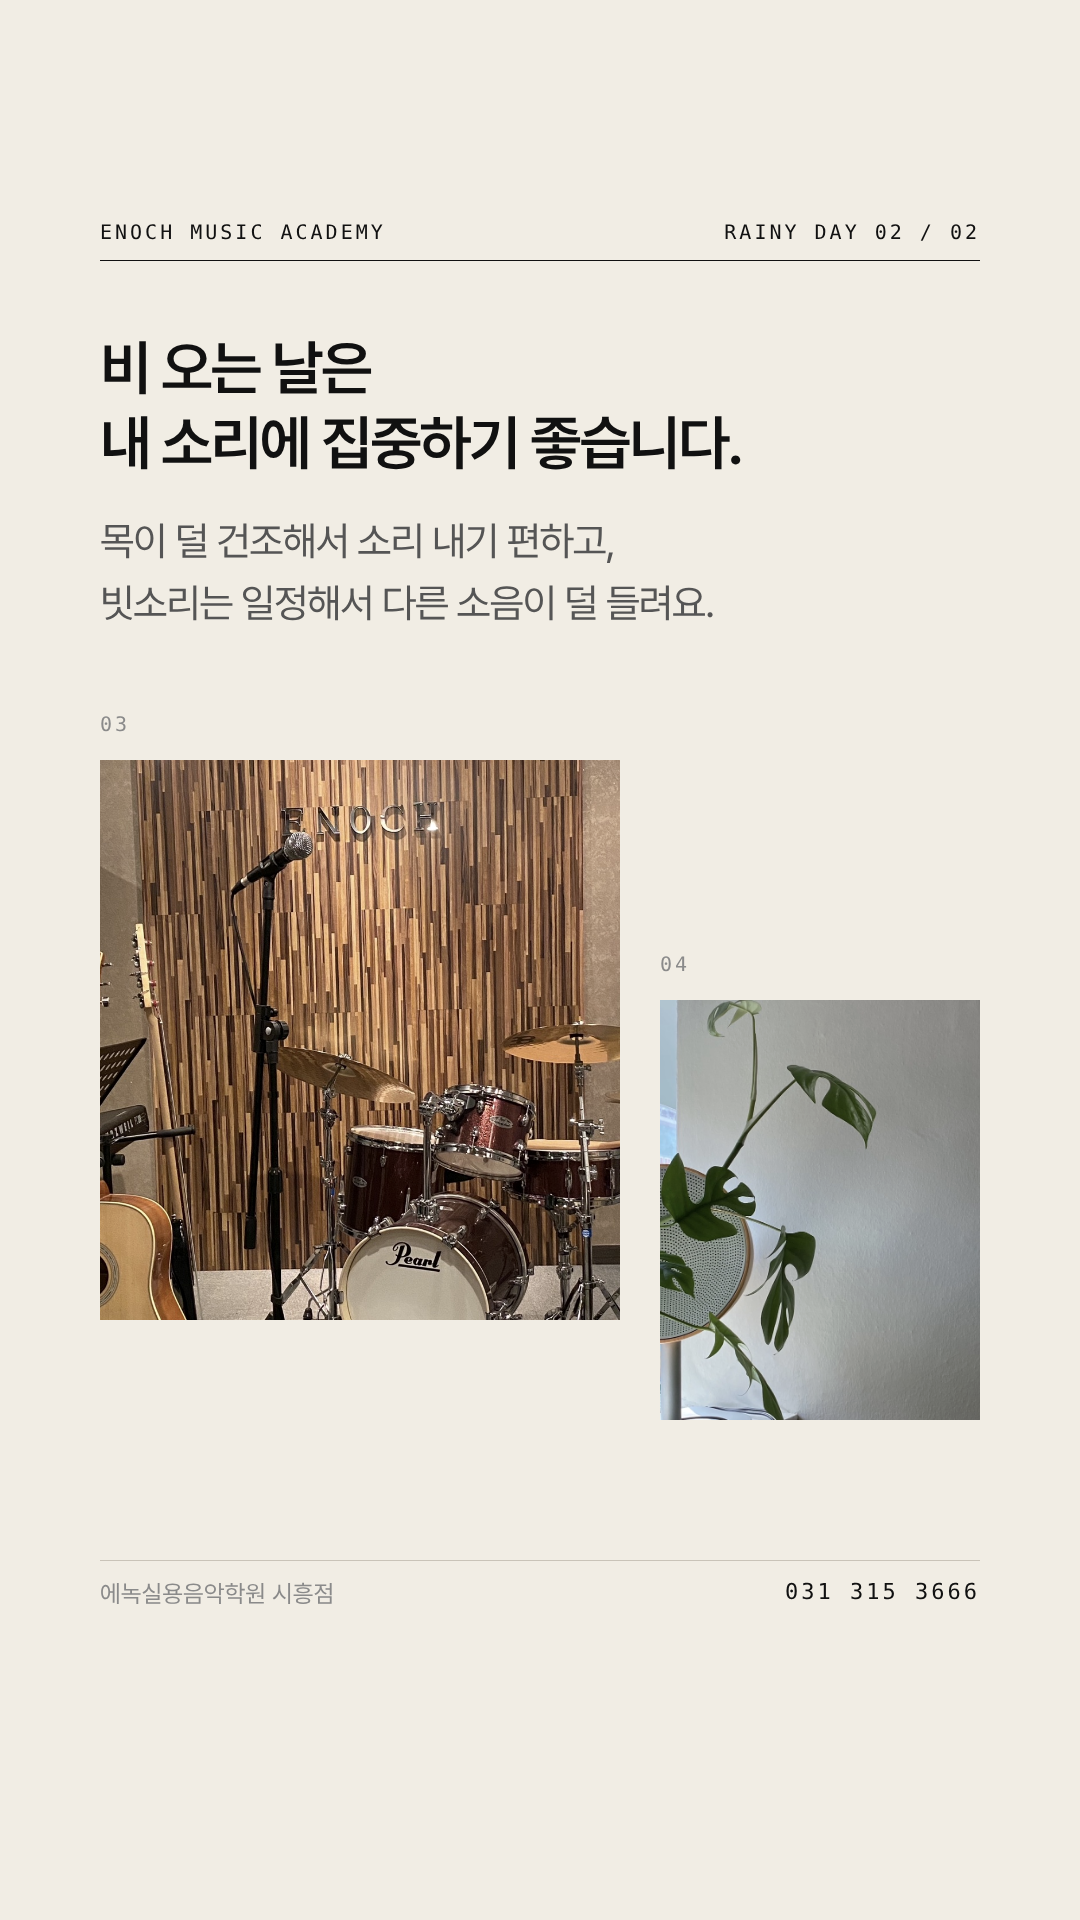
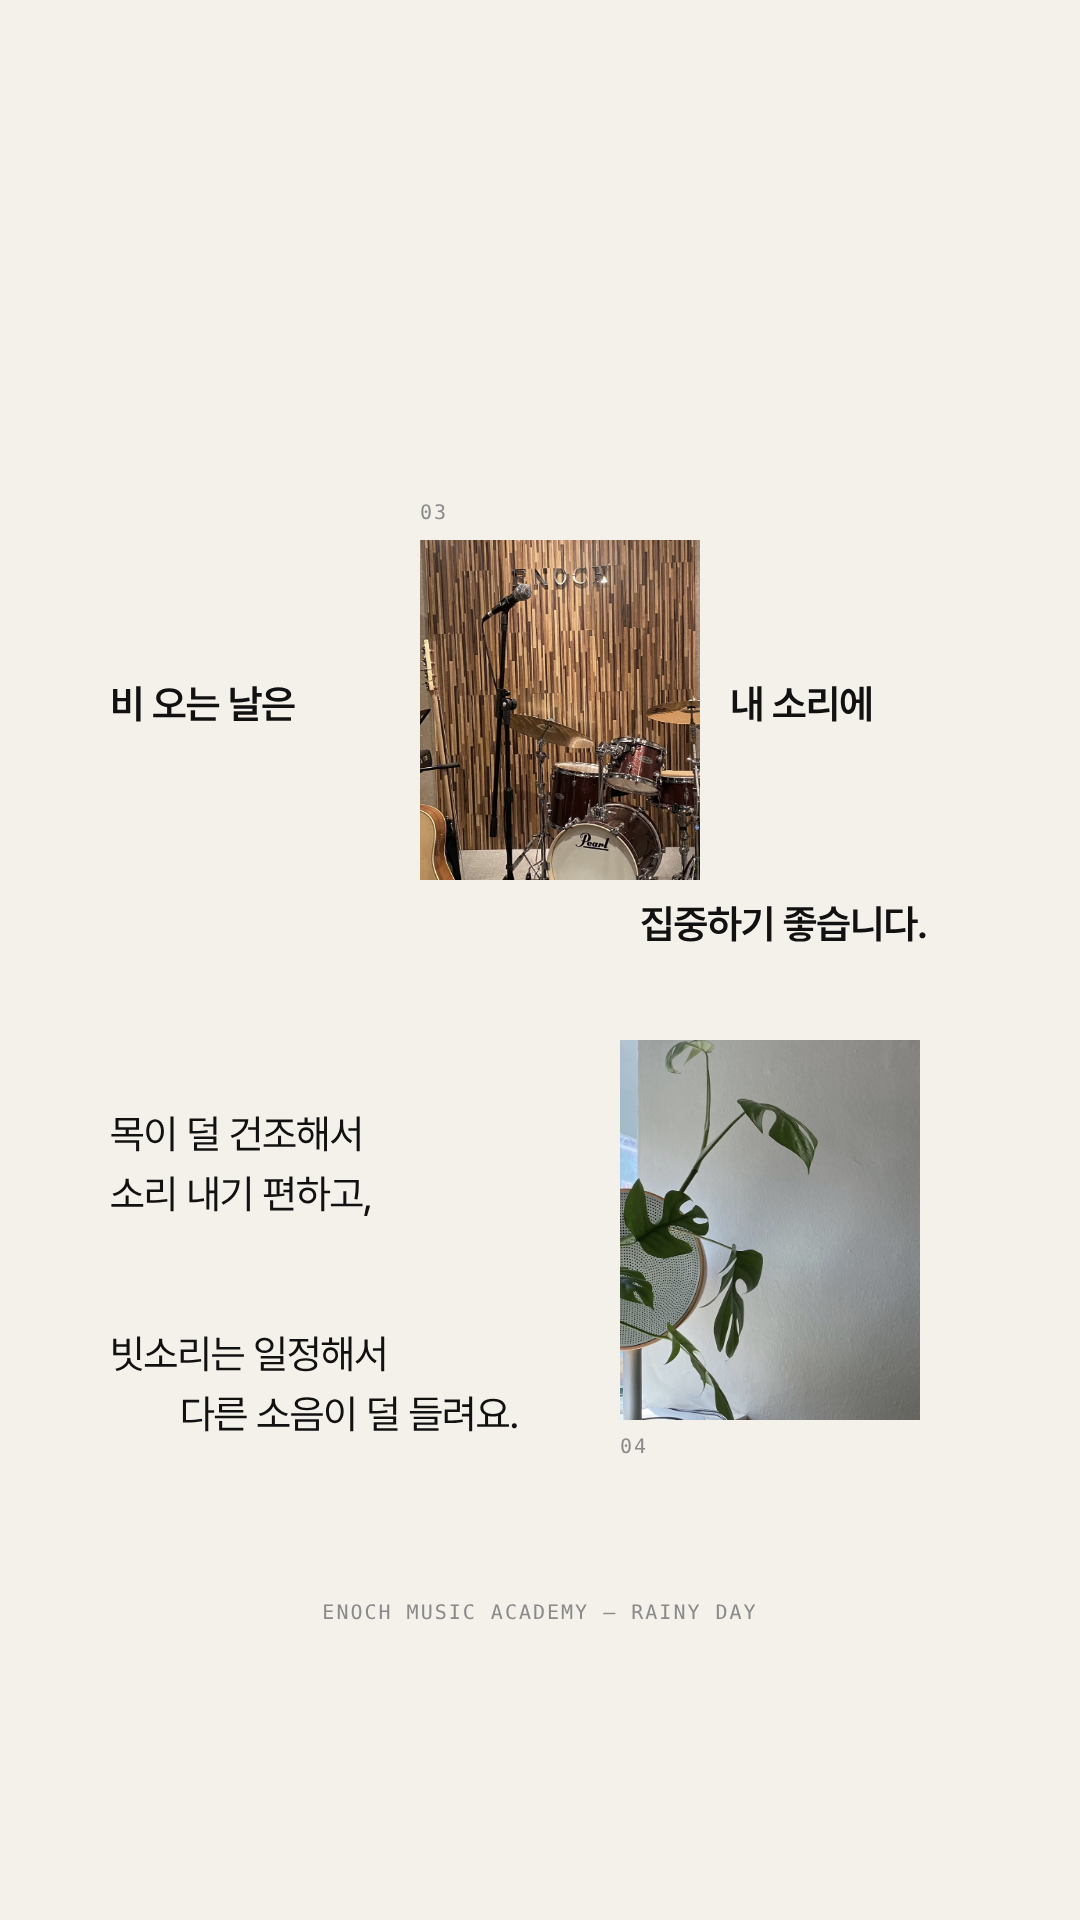
스토리 비 오는 날: 작은 글자가 사진 사이로 흐르는 배치
Claude-Session: https://claude.ai/code/session_01HGbZvgMeYrbU7mY8bwfjyb

diff --git a/output/릴스_비오는날/stories.html b/output/릴스_비오는날/stories.html
@@ -3,16 +3,13 @@
 @font-face{font-family:P;src:url(../../templates/fonts/Pretendard-SemiBold.woff2);font-weight:600}
 *{margin:0;padding:0;box-sizing:border-box}
 body{background:#ccc;font-family:P,sans-serif;word-break:keep-all}
-.mono{font-family:"IBM Plex Mono","DejaVu Sans Mono",monospace;letter-spacing:3px}
-section{position:relative;width:1080px;height:1920px;background:#F1EDE4;color:#111;overflow:hidden;margin-bottom:20px}
+.mono{font-family:"IBM Plex Mono","DejaVu Sans Mono",monospace;letter-spacing:2px}
+section{position:relative;width:1080px;height:1920px;background:#F4F1EA;color:#111;overflow:hidden;margin-bottom:20px}
 section>div{position:absolute}
-.hd{left:100px;right:100px;top:220px;display:flex;justify-content:space-between;font-size:20px;padding-bottom:16px;border-bottom:1.5px solid #111}
-.ft{left:100px;right:100px;top:1560px;display:flex;justify-content:space-between;font-size:24px;color:#8A8A8A;padding-top:18px;border-top:1px solid #C9C3B8}
-.ft .mono{font-size:22px;color:#111}
-.sub{font-size:40px;color:#555;letter-spacing:-1.5px;white-space:nowrap}
-.ttl{font-size:96px;font-weight:600;letter-spacing:-4.5px;line-height:1.1}
-.hl{font-size:60px;font-weight:600;letter-spacing:-2.5px;line-height:1.25;white-space:nowrap}
+.t{font-size:40px;font-weight:400;letter-spacing:-1px;white-space:nowrap}
+.t.b{font-weight:600}
 .lab{font-size:20px;color:#8A8A8A}
 .ph{overflow:hidden;background:#E4DFD4}
 .ph img{width:100%;height:100%;object-fit:cover;display:block;filter:saturate(.82) contrast(1.02)}
-</style></head><body><section><div class="hd mono"><span>ENOCH MUSIC ACADEMY</span><span>RAINY DAY 01 / 02</span></div><div class="sub" style="left:100px;top:330px">우산과 텀블러 하나 챙겨서 연습실로,</div><div class="ttl" style="left:96px;top:400px">비 오는 날의<br>연습</div><div class="lab mono" style="left:100px;top:672px">01</div><div class="ph" style="left:100px;top:720px;width:480px;height:640px"><img src="src/rain.jpg" style="object-position:50% 35%"></div><div class="lab mono" style="left:620px;top:932px">02</div><div class="ph" style="left:620px;top:980px;width:360px;height:420px"><img src="src/coffee.jpg" style="object-position:22% 50%"></div><div class="ft"><span>에녹실용음악학원 시흥점</span><span class="mono">031 315 3666</span></div></section><section><div class="hd mono"><span>ENOCH MUSIC ACADEMY</span><span>RAINY DAY 02 / 02</span></div><div class="hl" style="left:100px;top:330px">비 오는 날은<br>내 소리에 집중하기 좋습니다.</div><div class="sub" style="left:100px;top:510px;line-height:1.55">목이 덜 건조해서 소리 내기 편하고,<br>빗소리는 일정해서 다른 소음이 덜 들려요.</div><div class="lab mono" style="left:100px;top:712px">03</div><div class="ph" style="left:100px;top:760px;width:520px;height:560px"><img src="src/stage.jpg" style="object-position:50% 40%"></div><div class="lab mono" style="left:660px;top:952px">04</div><div class="ph" style="left:660px;top:1000px;width:320px;height:420px"><img src="src/plant.jpg" style="object-position:22% 50%"></div><div class="ft"><span>에녹실용음악학원 시흥점</span><span class="mono">031 315 3666</span></div></section></body></html>
+.ft{left:0;right:0;top:1600px;text-align:center;font-size:20px;color:#8A8A8A}
+</style></head><body><section><div class="t " style="left:110px;top:700px">우산과 텀블러</div><div class="lab mono" style="left:420px;top:520px">01</div><div class="ph" style="left:420px;top:560px;width:270px;height:360px"><img src="src/rain.jpg" style="object-position:50% 35%"></div><div class="t " style="left:720px;top:700px">하나 챙겨서</div><div class="t " style="left:820px;top:760px">연습실로,</div><div class="t b" style="left:150px;top:1150px">비 오는 날의</div><div class="t b" style="left:330px;top:1210px">연습</div><div class="lab mono" style="left:600px;top:1424px">02</div><div class="ph" style="left:600px;top:1010px;width:330px;height:400px"><img src="src/coffee.jpg" style="object-position:22% 50%"></div><div class="ft mono">ENOCH MUSIC ACADEMY — RAINY DAY</div></section><section><div class="t b" style="left:110px;top:680px">비 오는 날은</div><div class="lab mono" style="left:420px;top:500px">03</div><div class="ph" style="left:420px;top:540px;width:280px;height:340px"><img src="src/stage.jpg" style="object-position:50% 40%"></div><div class="t b" style="left:730px;top:680px">내 소리에</div><div class="t b" style="left:640px;top:900px">집중하기 좋습니다.</div><div class="t " style="left:110px;top:1110px">목이 덜 건조해서</div><div class="t " style="left:110px;top:1170px">소리 내기 편하고,</div><div class="lab mono" style="left:620px;top:1434px">04</div><div class="ph" style="left:620px;top:1040px;width:300px;height:380px"><img src="src/plant.jpg" style="object-position:22% 50%"></div><div class="t " style="left:110px;top:1330px">빗소리는 일정해서</div><div class="t " style="left:180px;top:1390px">다른 소음이 덜 들려요.</div><div class="ft mono">ENOCH MUSIC ACADEMY — RAINY DAY</div></section></body></html>

diff --git a/output/릴스_비오는날/stories.py b/output/릴스_비오는날/stories.py
@@ -1,28 +1,29 @@
-# 스토리 2장 "비 오는 날의 연습" (1080×1920) — 카드뉴스·릴스와 같은 브이로그형 (아이보리 · 블랙 · Pretendard, 사진 테두리 없음)
+# 스토리 2장 "비 오는 날의 연습" (1080×1920) — 작은 글자가 사진 사이로 흘러가는 브이로그 배치 (아이보리 · 블랙 · Pretendard)
 # python3 output/릴스_비오는날/stories.py → stories.html → CHROMIUM_PATH=... node output/릴스_비오는날/stories.mjs → story_01.png, story_02.png
 import os
 HERE = os.path.dirname(os.path.abspath(__file__))
 
 
-def photo(n, src, x, y, w, h, pos):
-    return (f'<div class="lab mono" style="left:{x}px;top:{y-48}px">{n:02d}</div>'
+def t(s, x, y, cls=''):
+    return f'<div class="t {cls}" style="left:{x}px;top:{y}px">{s}</div>'
+
+
+def photo(n, src, x, y, w, h, pos, below=False):
+    ly = y + h + 14 if below else y - 40
+    return (f'<div class="lab mono" style="left:{x}px;top:{ly}px">{n:02d}</div>'
             f'<div class="ph" style="left:{x}px;top:{y}px;width:{w}px;height:{h}px"><img src="src/{src}.jpg" style="object-position:{pos}"></div>')
 
 
-def story(i, body):
-    return (f'<section><div class="hd mono"><span>ENOCH MUSIC ACADEMY</span><span>RAINY DAY {i:02d} / 02</span></div>{body}'
-            '<div class="ft"><span>에녹실용음악학원 시흥점</span><span class="mono">031 315 3666</span></div></section>')
-
+FOOT = '<div class="ft mono">ENOCH MUSIC ACADEMY — RAINY DAY</div>'
 
 S = [
-    story(1, '<div class="sub" style="left:100px;top:330px">우산과 텀블러 하나 챙겨서 연습실로,</div>'
-             '<div class="ttl" style="left:96px;top:400px">비 오는 날의<br>연습</div>'
-             + photo(1, 'rain', 100, 720, 480, 640, '50% 35%')
-             + photo(2, 'coffee', 620, 980, 360, 420, '22% 50%')),
-    story(2, '<div class="hl" style="left:100px;top:330px">비 오는 날은<br>내 소리에 집중하기 좋습니다.</div>'
-             '<div class="sub" style="left:100px;top:510px;line-height:1.55">목이 덜 건조해서 소리 내기 편하고,<br>빗소리는 일정해서 다른 소음이 덜 들려요.</div>'
-             + photo(3, 'stage', 100, 760, 520, 560, '50% 40%')
-             + photo(4, 'plant', 660, 1000, 320, 420, '22% 50%')),
+    # 1: 우산과 텀블러 (비 오는 창문) 하나 챙겨서 / 연습실로, — 비 오는 날의 연습 (피아노 위 텀블러)
+    t('우산과 텀블러', 110, 700) + photo(1, 'rain', 420, 560, 270, 360, '50% 35%') + t('하나 챙겨서', 720, 700) + t('연습실로,', 820, 760)
+    + t('비 오는 날의', 150, 1150, 'b') + t('연습', 330, 1210, 'b') + photo(2, 'coffee', 600, 1010, 330, 400, '22% 50%', below=True) + FOOT,
+    # 2: 비 오는 날은 (무대) 내 소리에 / 집중하기 좋습니다. — 목이 덜 건조해서 … (창가 식물)
+    t('비 오는 날은', 110, 680, 'b') + photo(3, 'stage', 420, 540, 280, 340, '50% 40%') + t('내 소리에', 730, 680, 'b') + t('집중하기 좋습니다.', 640, 900, 'b')
+    + t('목이 덜 건조해서', 110, 1110) + t('소리 내기 편하고,', 110, 1170) + photo(4, 'plant', 620, 1040, 300, 380, '22% 50%', below=True)
+    + t('빗소리는 일정해서', 110, 1330) + t('다른 소음이 덜 들려요.', 180, 1390) + FOOT,
 ]
 
 html = f'''<!doctype html><html lang="ko"><head><meta charset="utf-8"><title>stories</title><style>
@@ -30,18 +31,15 @@ html = f'''<!doctype html><html lang="ko"><head><meta charset="utf-8"><title>sto
 @font-face{{font-family:P;src:url(../../templates/fonts/Pretendard-SemiBold.woff2);font-weight:600}}
 *{{margin:0;padding:0;box-sizing:border-box}}
 body{{background:#ccc;font-family:P,sans-serif;word-break:keep-all}}
-.mono{{font-family:"IBM Plex Mono","DejaVu Sans Mono",monospace;letter-spacing:3px}}
-section{{position:relative;width:1080px;height:1920px;background:#F1EDE4;color:#111;overflow:hidden;margin-bottom:20px}}
+.mono{{font-family:"IBM Plex Mono","DejaVu Sans Mono",monospace;letter-spacing:2px}}
+section{{position:relative;width:1080px;height:1920px;background:#F4F1EA;color:#111;overflow:hidden;margin-bottom:20px}}
 section>div{{position:absolute}}
-.hd{{left:100px;right:100px;top:220px;display:flex;justify-content:space-between;font-size:20px;padding-bottom:16px;border-bottom:1.5px solid #111}}
-.ft{{left:100px;right:100px;top:1560px;display:flex;justify-content:space-between;font-size:24px;color:#8A8A8A;padding-top:18px;border-top:1px solid #C9C3B8}}
-.ft .mono{{font-size:22px;color:#111}}
-.sub{{font-size:40px;color:#555;letter-spacing:-1.5px;white-space:nowrap}}
-.ttl{{font-size:96px;font-weight:600;letter-spacing:-4.5px;line-height:1.1}}
-.hl{{font-size:60px;font-weight:600;letter-spacing:-2.5px;line-height:1.25;white-space:nowrap}}
+.t{{font-size:40px;font-weight:400;letter-spacing:-1px;white-space:nowrap}}
+.t.b{{font-weight:600}}
 .lab{{font-size:20px;color:#8A8A8A}}
 .ph{{overflow:hidden;background:#E4DFD4}}
 .ph img{{width:100%;height:100%;object-fit:cover;display:block;filter:saturate(.82) contrast(1.02)}}
-</style></head><body>{''.join(S)}</body></html>'''
+.ft{{left:0;right:0;top:1600px;text-align:center;font-size:20px;color:#8A8A8A}}
+</style></head><body>{''.join(f'<section>{s}</section>' for s in S)}</body></html>'''
 open(os.path.join(HERE, 'stories.html'), 'w', encoding='utf-8').write(html)
 print('stories.html')
